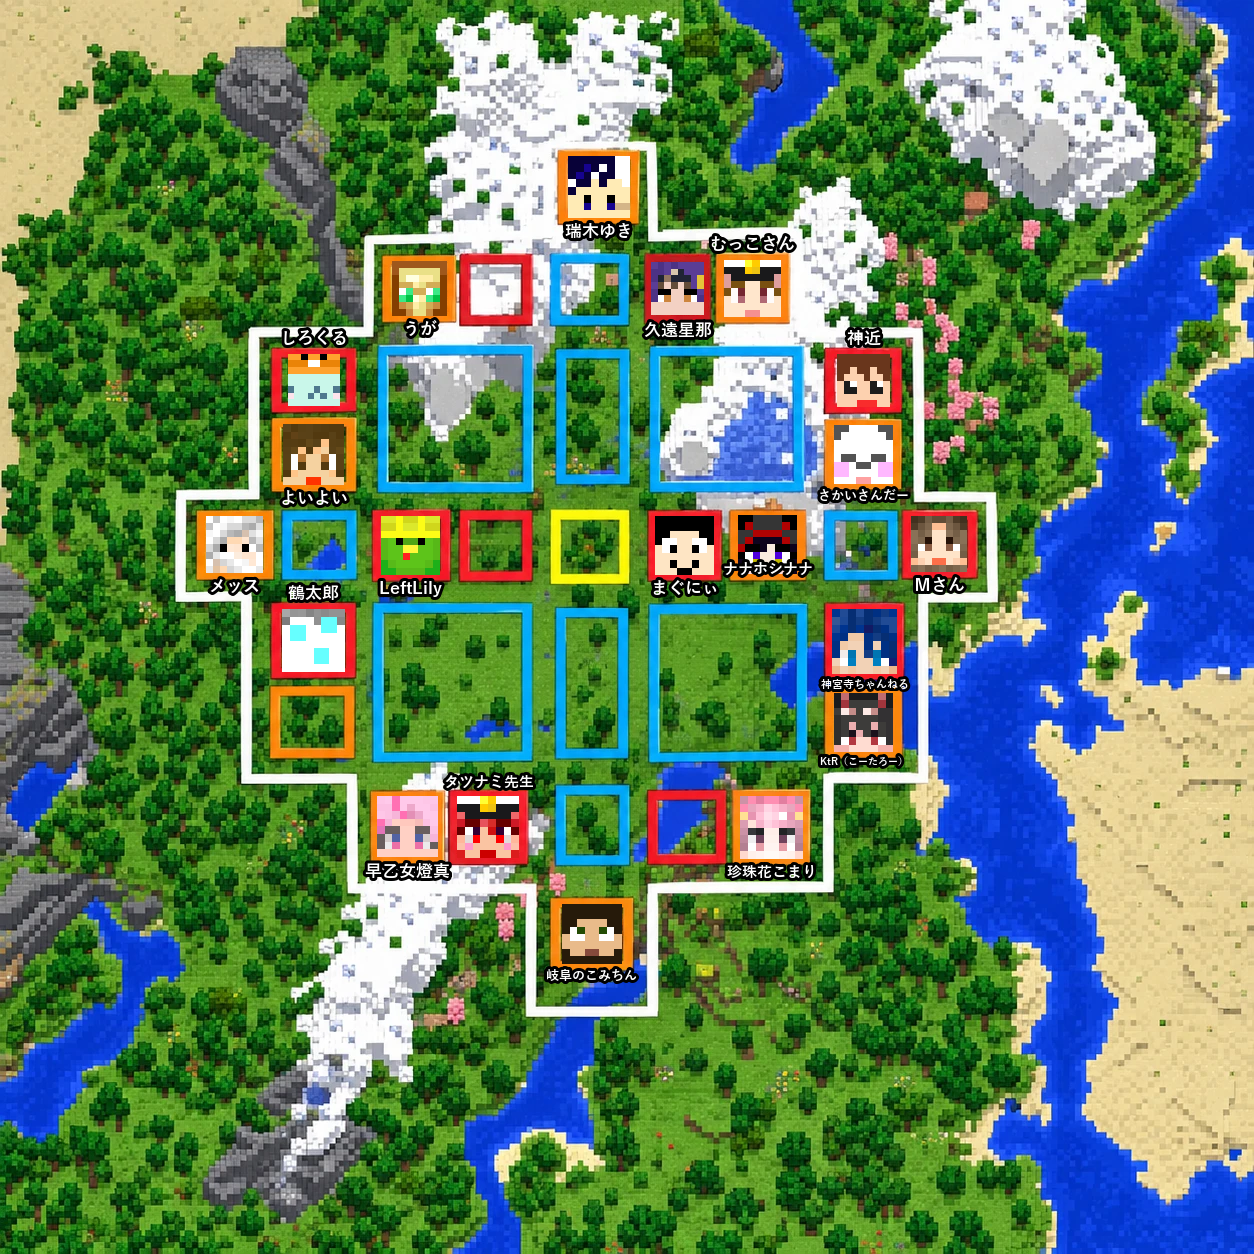
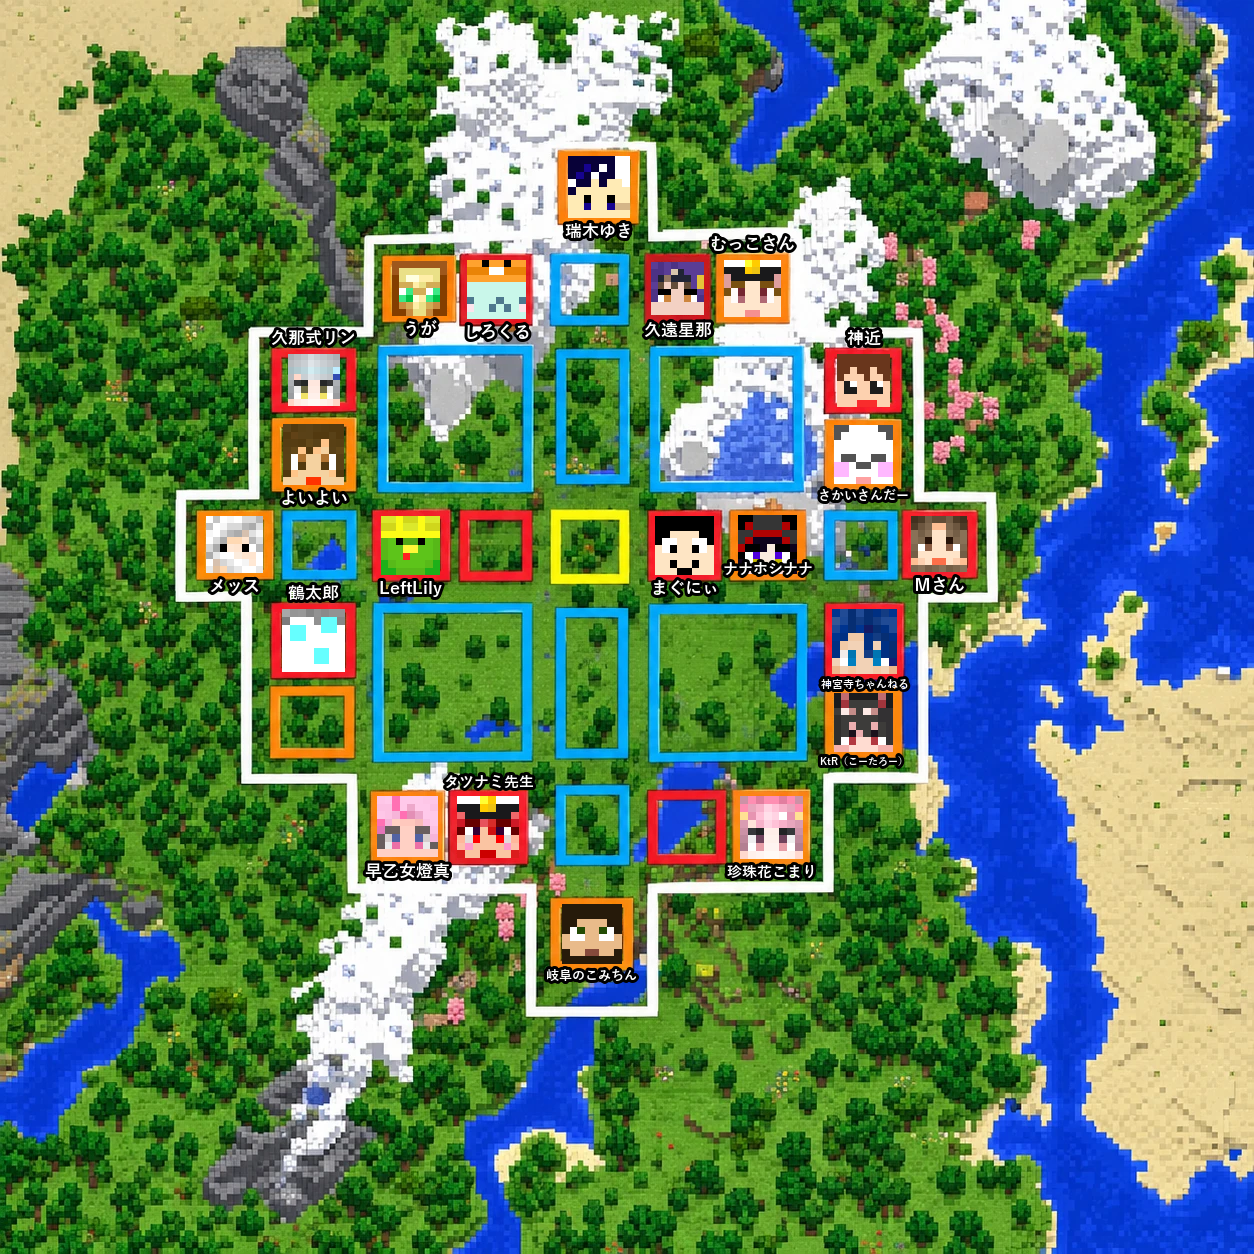
全体図を更新（3番にしろくる、7番に久那式リンを配置）

Changed region(s): [[0.3732, 0.1866, 0.4354, 0.2799], [0.2177, 0.2488, 0.2799, 0.3421]]

diff --git a/index.html b/index.html
@@ -8,7 +8,7 @@
     <link rel="icon" href="https://shun-chacha.github.io/homekura-live/img/favicon.ico" type="image/x-icon">
     <link rel="icon" href="https://shun-chacha.github.io/homekura-live/img/icon.png" type="image/png" sizes="192x192">
     <link rel="apple-touch-icon" href="https://shun-chacha.github.io/homekura-live/img/apple-touch-icon.png">
-    <link rel="stylesheet" href="shared/theme.css?v=202610190011">
+    <link rel="stylesheet" href="shared/theme.css?v=202610191116">
 
     <style>
         body {
@@ -536,20 +536,20 @@
 
 <div class="banner-container">
     <div class="header-logo-wrap">
-        <img src="img/logo.png?v=202610190011" alt="homeクラ" class="header-logo">
-        <img src="img/season3-text.png?v=202610190011" alt="Season３" class="header-season">
+        <img src="img/logo.png?v=202610191116" alt="homeクラ" class="header-logo">
+        <img src="img/season3-text.png?v=202610191116" alt="Season３" class="header-season">
     </div>
 </div>
 
 <div class="top-buttons-wrapper">
     <a href="https://charagp.full-comi.jp/event/lp/84?chara_event_id=7" class="yurugp-btn" target="_blank" title="世界ご当地キャラ グランプリ">
-        <img src="img/charagp-icon.jpg?v=202610190011" alt="世界ご当地キャラ グランプリ">
+        <img src="img/charagp-icon.jpg?v=202610191116" alt="世界ご当地キャラ グランプリ">
     </a>
     <a href="https://github.com/SHUN-CHACHA/minecraft-tools/tree/main" class="yurugp-btn github-btn" target="_blank" title="旬茶オリジナルMInecraft Tools">
-        <img src="img/github-icon.png?v=202610190011" alt="旬茶オリジナルMInecraft Tools">
+        <img src="img/github-icon.png?v=202610191116" alt="旬茶オリジナルMInecraft Tools">
     </a>
     <a href="https://modrinth.com/user/SHUNCHA" class="yurugp-btn modrinth-btn" target="_blank" title="Modrinth">
-        <img src="img/modrinth-icon.png?v=202610190011" alt="Modrinth">
+        <img src="img/modrinth-icon.png?v=202610191116" alt="Modrinth">
     </a>
     <div class="top-buttons-stack">
         <div class="external-links-container">
@@ -566,7 +566,7 @@
         <div class="header-controls">
             <div class="controls-left">
                 <a href="https://shun-chacha.github.io/homekura-live/roulette.html" class="roulette-btn" target="_blank">
-                    <img src="img/roulette-icon.png?v=202610190011" alt="" style="width: 16px; height: 16px; vertical-align: middle;">
+                    <img src="img/roulette-icon.png?v=202610191116" alt="" style="width: 16px; height: 16px; vertical-align: middle;">
                     旬茶作 ルーレット
                 </a>
             </div>
@@ -592,8 +592,8 @@
 </div>
 
 <div class="map-link-container">
-    <a href="minecraft_map.html?v=202610190011" target="_blank" class="map-link-btn">homeクラ Season3 メンバー拠点マップ</a>
-    <a href="season2/index.html?v=202610190011" class="map-link-btn" style="opacity:0.75;">📁 Season2（過去シーズン）はこちら</a>
+    <a href="minecraft_map.html?v=202610191116" target="_blank" class="map-link-btn">homeクラ Season3 メンバー拠点マップ</a>
+    <a href="season2/index.html?v=202610191116" class="map-link-btn" style="opacity:0.75;">📁 Season2（過去シーズン）はこちら</a>
 </div>
 
 <div class="main-wrapper">
@@ -619,13 +619,13 @@
 
     <div class="section-box" id="member">
         <div class="section-title">👥 メンバー一覧
-            <a href="members.pdf?v=202610190011" target="_blank" class="btn-member-pdf" title="メンバー一覧（PDF）を開く">📄 PDF</a>
+            <a href="members.pdf?v=202610191116" target="_blank" class="btn-member-pdf" title="メンバー一覧（PDF）を開く">📄 PDF</a>
         </div>
         <div id="allList" class="list-container"></div>
     </div>
 </div>
 
-<script src="js/data/config.js?v=202610190011"></script>
+<script src="js/data/config.js?v=202610191116"></script>
 
 <!-- 🧊 3Dスキンビューアー用ライブラリ（ESM配信のみのためmoduleで読み込みwindowに公開） -->
 <script type="module">
@@ -641,7 +641,7 @@ const PROXY_URL = (window.CONFIG?.YOUTUBE_PROXY_URL || '').replace(/\/$/, '');
 const CACHE_DURATION_MS         = window.CONFIG?.CACHE_DURATION_MS          ?? (5  * 60 * 1000);
 const CHANNEL_ICON_CACHE_DURATION_MS = window.CONFIG?.CHANNEL_ICON_CACHE_DURATION_MS ?? (24 * 60 * 60 * 1000);
 // 画像のキャッシュ対策用バージョン番号（コミット時に scripts/bump-asset-version.ps1 が自動更新する）
-const ASSET_VERSION = '202610190011';
+const ASSET_VERSION = '202610191116';
 let channels = [];
 let reservedVideos = JSON.parse(localStorage.getItem('reserved_videos') || '[]');
 let timeLeft = 600;
